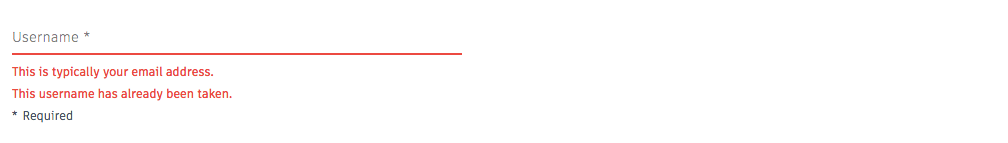
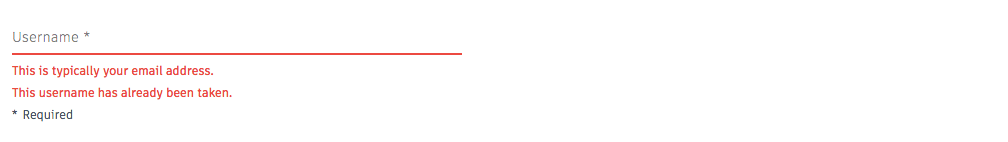
refactor(text-field): Move TextField border to wrapper

diff --git a/packages/text-field/src/text-field.scss b/packages/text-field/src/text-field.scss
@@ -3,6 +3,18 @@
 @import "~@hig/styles/mixins/typography.scss";
 @import "./tokens.scss";
 
+@mixin styled-border($border-color, $hover-border-color: $border-color) {
+  border: {
+    bottom: 1px solid $border-color;
+  }
+  box-shadow: 0 1px 0 $border-color;
+
+  &:hover {
+    border-color: $hover-border-color;
+    box-shadow: 0 1px 0 $hover-border-color;
+  }
+}
+
 .hig__text-field-v1 {
   position: relative;
   display: flex;
@@ -92,10 +104,32 @@
 }
 
 .hig__text-field-v1__input-wrapper {
+  @include styled-border(color(hig-cool-gray-30), color(hig-turquoise-50));
   position: relative;
   display: flex;
   flex-direction: column;
   margin-bottom: 10px;
+  box-shadow: none;
+}
+
+.hig__text-field-v1__input-wrapper--focused {
+  @include styled-border(color(hig-blue-60));
+}
+
+.hig__text-field-v1__input-wrapper--disabled {
+  @include styled-border(color(hig-cool-gray-20));
+
+  border-bottom-style: dashed;
+  color: color(hig-cool-gray-20);
+  box-shadow: none;
+
+  &:hover {
+    box-shadow: none;
+  }
+}
+
+.hig__text-field-v1__input-wrapper--with-errors {
+  @include styled-border(color(hig-red-alert));
 }
 
 .hig__text-field-v1__clear {
@@ -117,11 +151,6 @@
 }
 
 .hig__text-field-v1--with-errors {
-  .hig__text-field-v1__input {
-    border-bottom: 2px solid color(hig-red-alert);
-    box-shadow: none;
-  }
-
   .hig__text-field-v1__instructions {
     font-weight: 600;
     color: color(hig-red-alert);

diff --git a/packages/text-field/src/TextFieldPresenter.js b/packages/text-field/src/TextFieldPresenter.js
@@ -147,7 +147,7 @@ export default class TextFieldPresenter extends Component {
       <div
         className={cx("hig__text-field-v1", {
           "hig__text-field-v1--required": required,
-          "hig__text-field-v1--disabled": this.props.disabled,
+          "hig__text-field-v1--disabled": inputProps.disabled,
           "hig__text-field-v1--clear-button-visible": hasClearableInput,
           "hig__text-field-v1--with-errors": errors
         })}
@@ -157,7 +157,13 @@ export default class TextFieldPresenter extends Component {
             "hig__text-field-v1__content--with-icon": icon
           })}
         >
-          <div className="hig__text-field-v1__input-wrapper">
+          <div
+            className={cx("hig__text-field-v1__input-wrapper", {
+              "hig__text-field-v1__input-wrapper--focused": this.state.focused,
+              "hig__text-field-v1__input-wrapper--with-errors": errors,
+              "hig__text-field-v1__input-wrapper--disabled": inputProps.disabled
+            })}
+          >
             {label && <span className="hig__text-field-v1__label-spacer" />}
 
             {label && (

diff --git a/packages/text-field/src/presenters/input.scss b/packages/text-field/src/presenters/input.scss
@@ -16,32 +16,13 @@
   box-sizing: border-box;
   background-color: transparent;
   border: none;
-  border-bottom: 1px solid color(hig-cool-gray-30);
-
-  &:hover {
-    border: none;
-    border-bottom: 1px solid color(hig-turquoise-50);
-    box-shadow: 0 1px 0 color(hig-turquoise-50);
-  }
 
   &:focus {
     outline: none;
-    border: none;
-    border-bottom: 1px solid color(hig-blue-60);
-    box-shadow: 0 1px 0 color(hig-blue-60);
     @include placeholder {
       color: color(hig-cool-gray-50);
       font-size: 14px;
       transition-delay: 0.2s;
-    }
-  }
-
-  &[disabled] {
-    border-bottom-style: dashed;
-    border-bottom-color: color(hig-cool-gray-20);
-    color: color(hig-cool-gray-20);
-    &:hover {
-      box-shadow: none;
     }
   }
 
